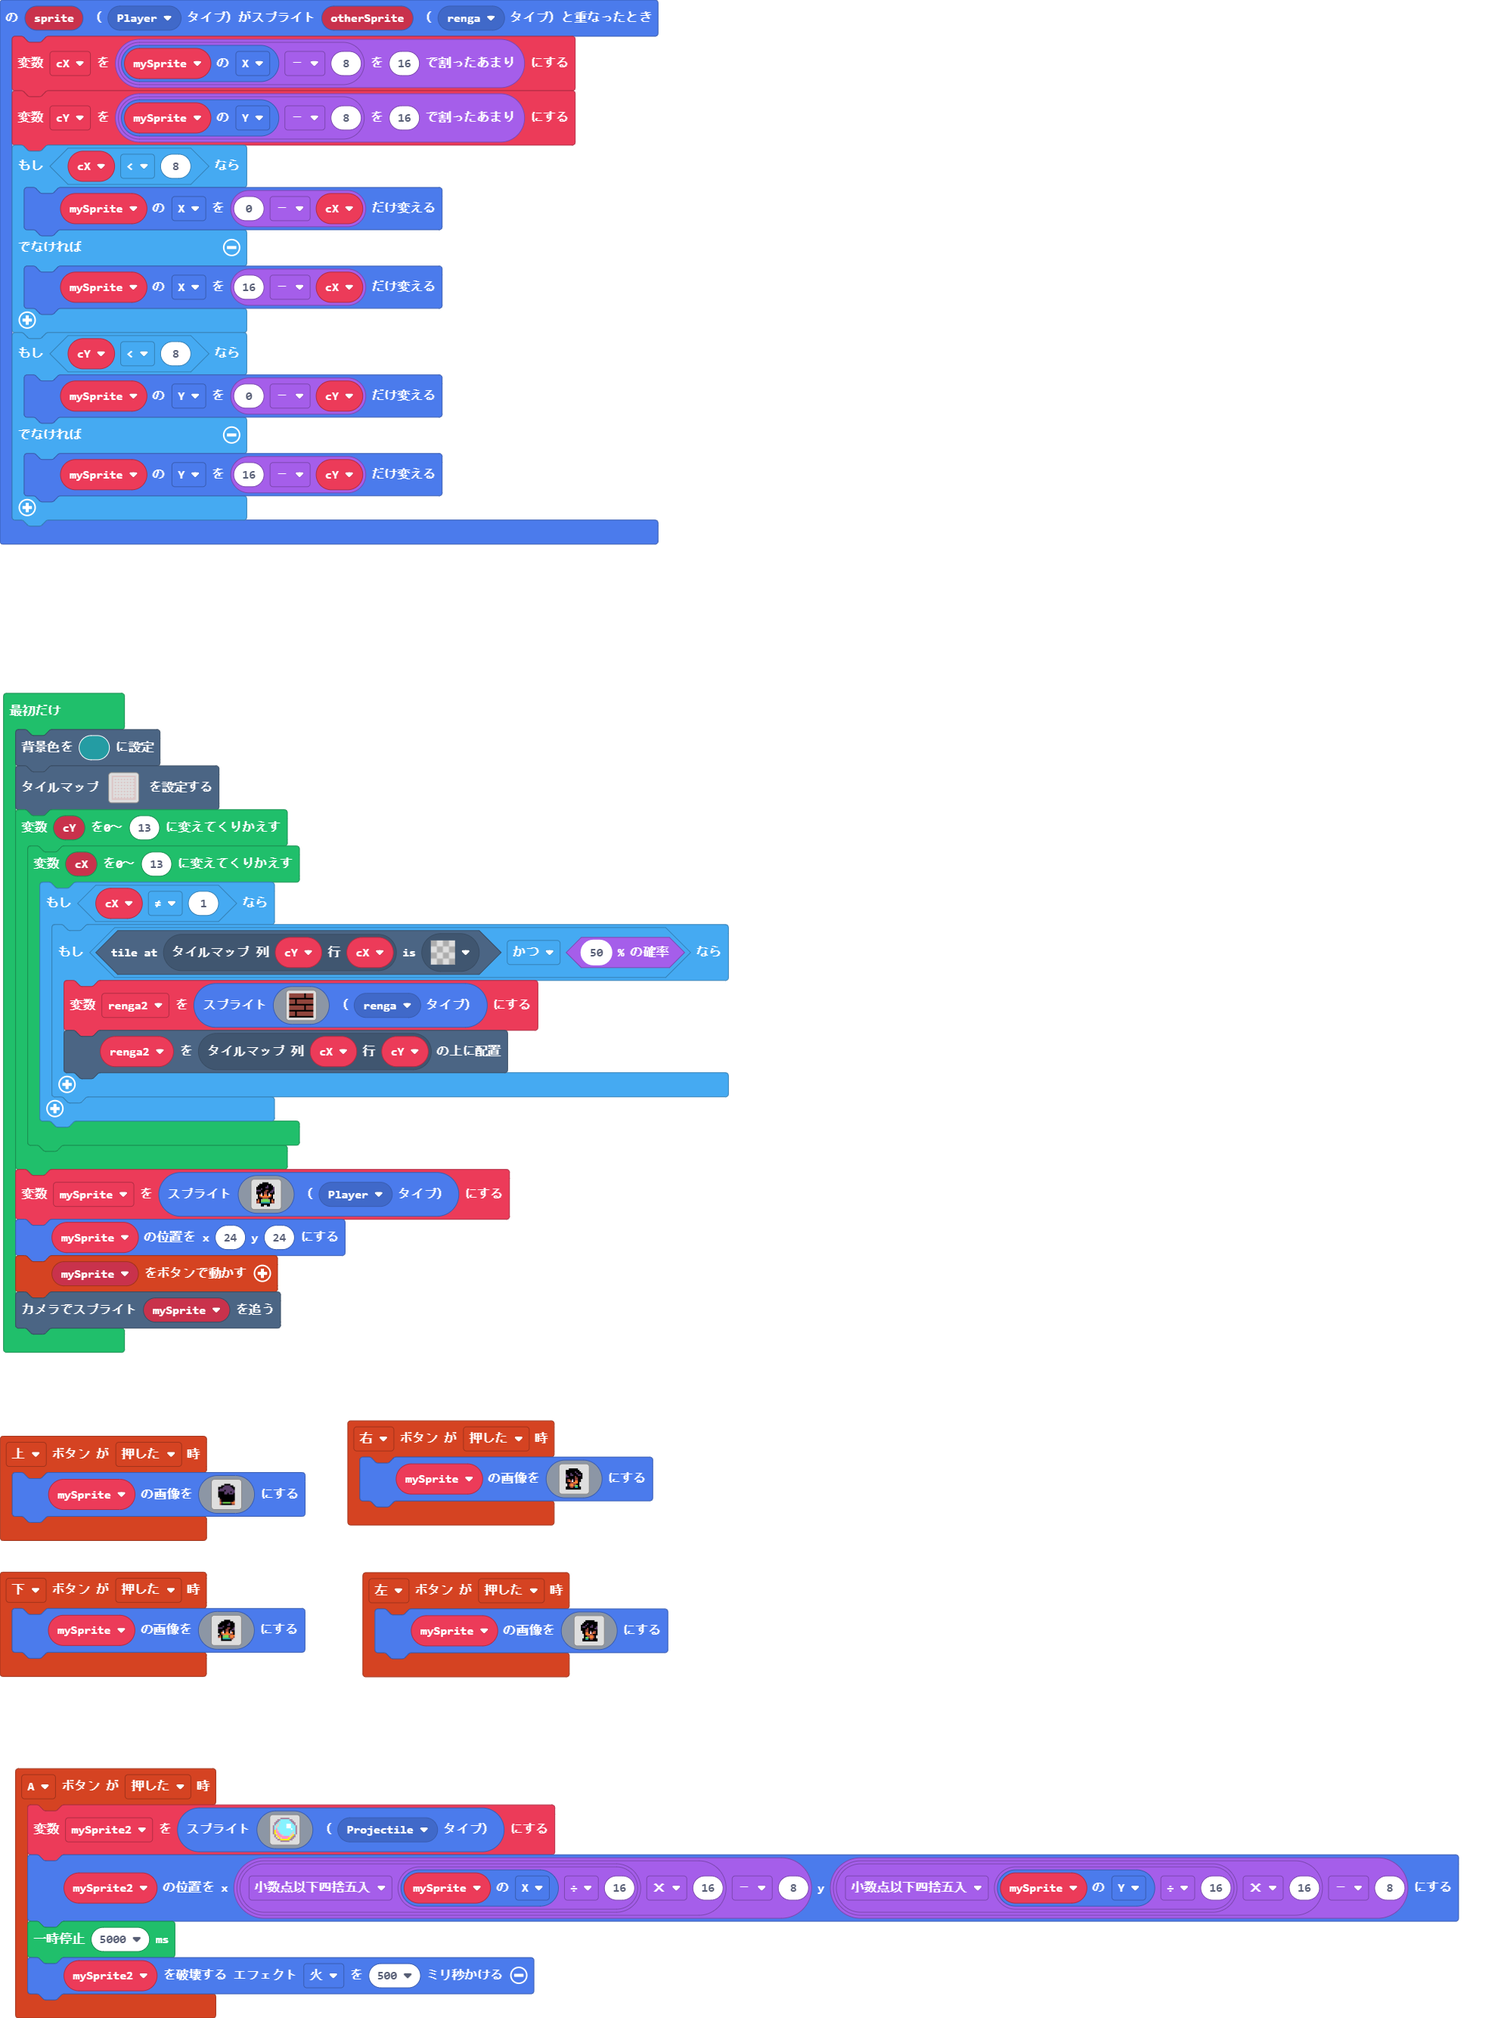
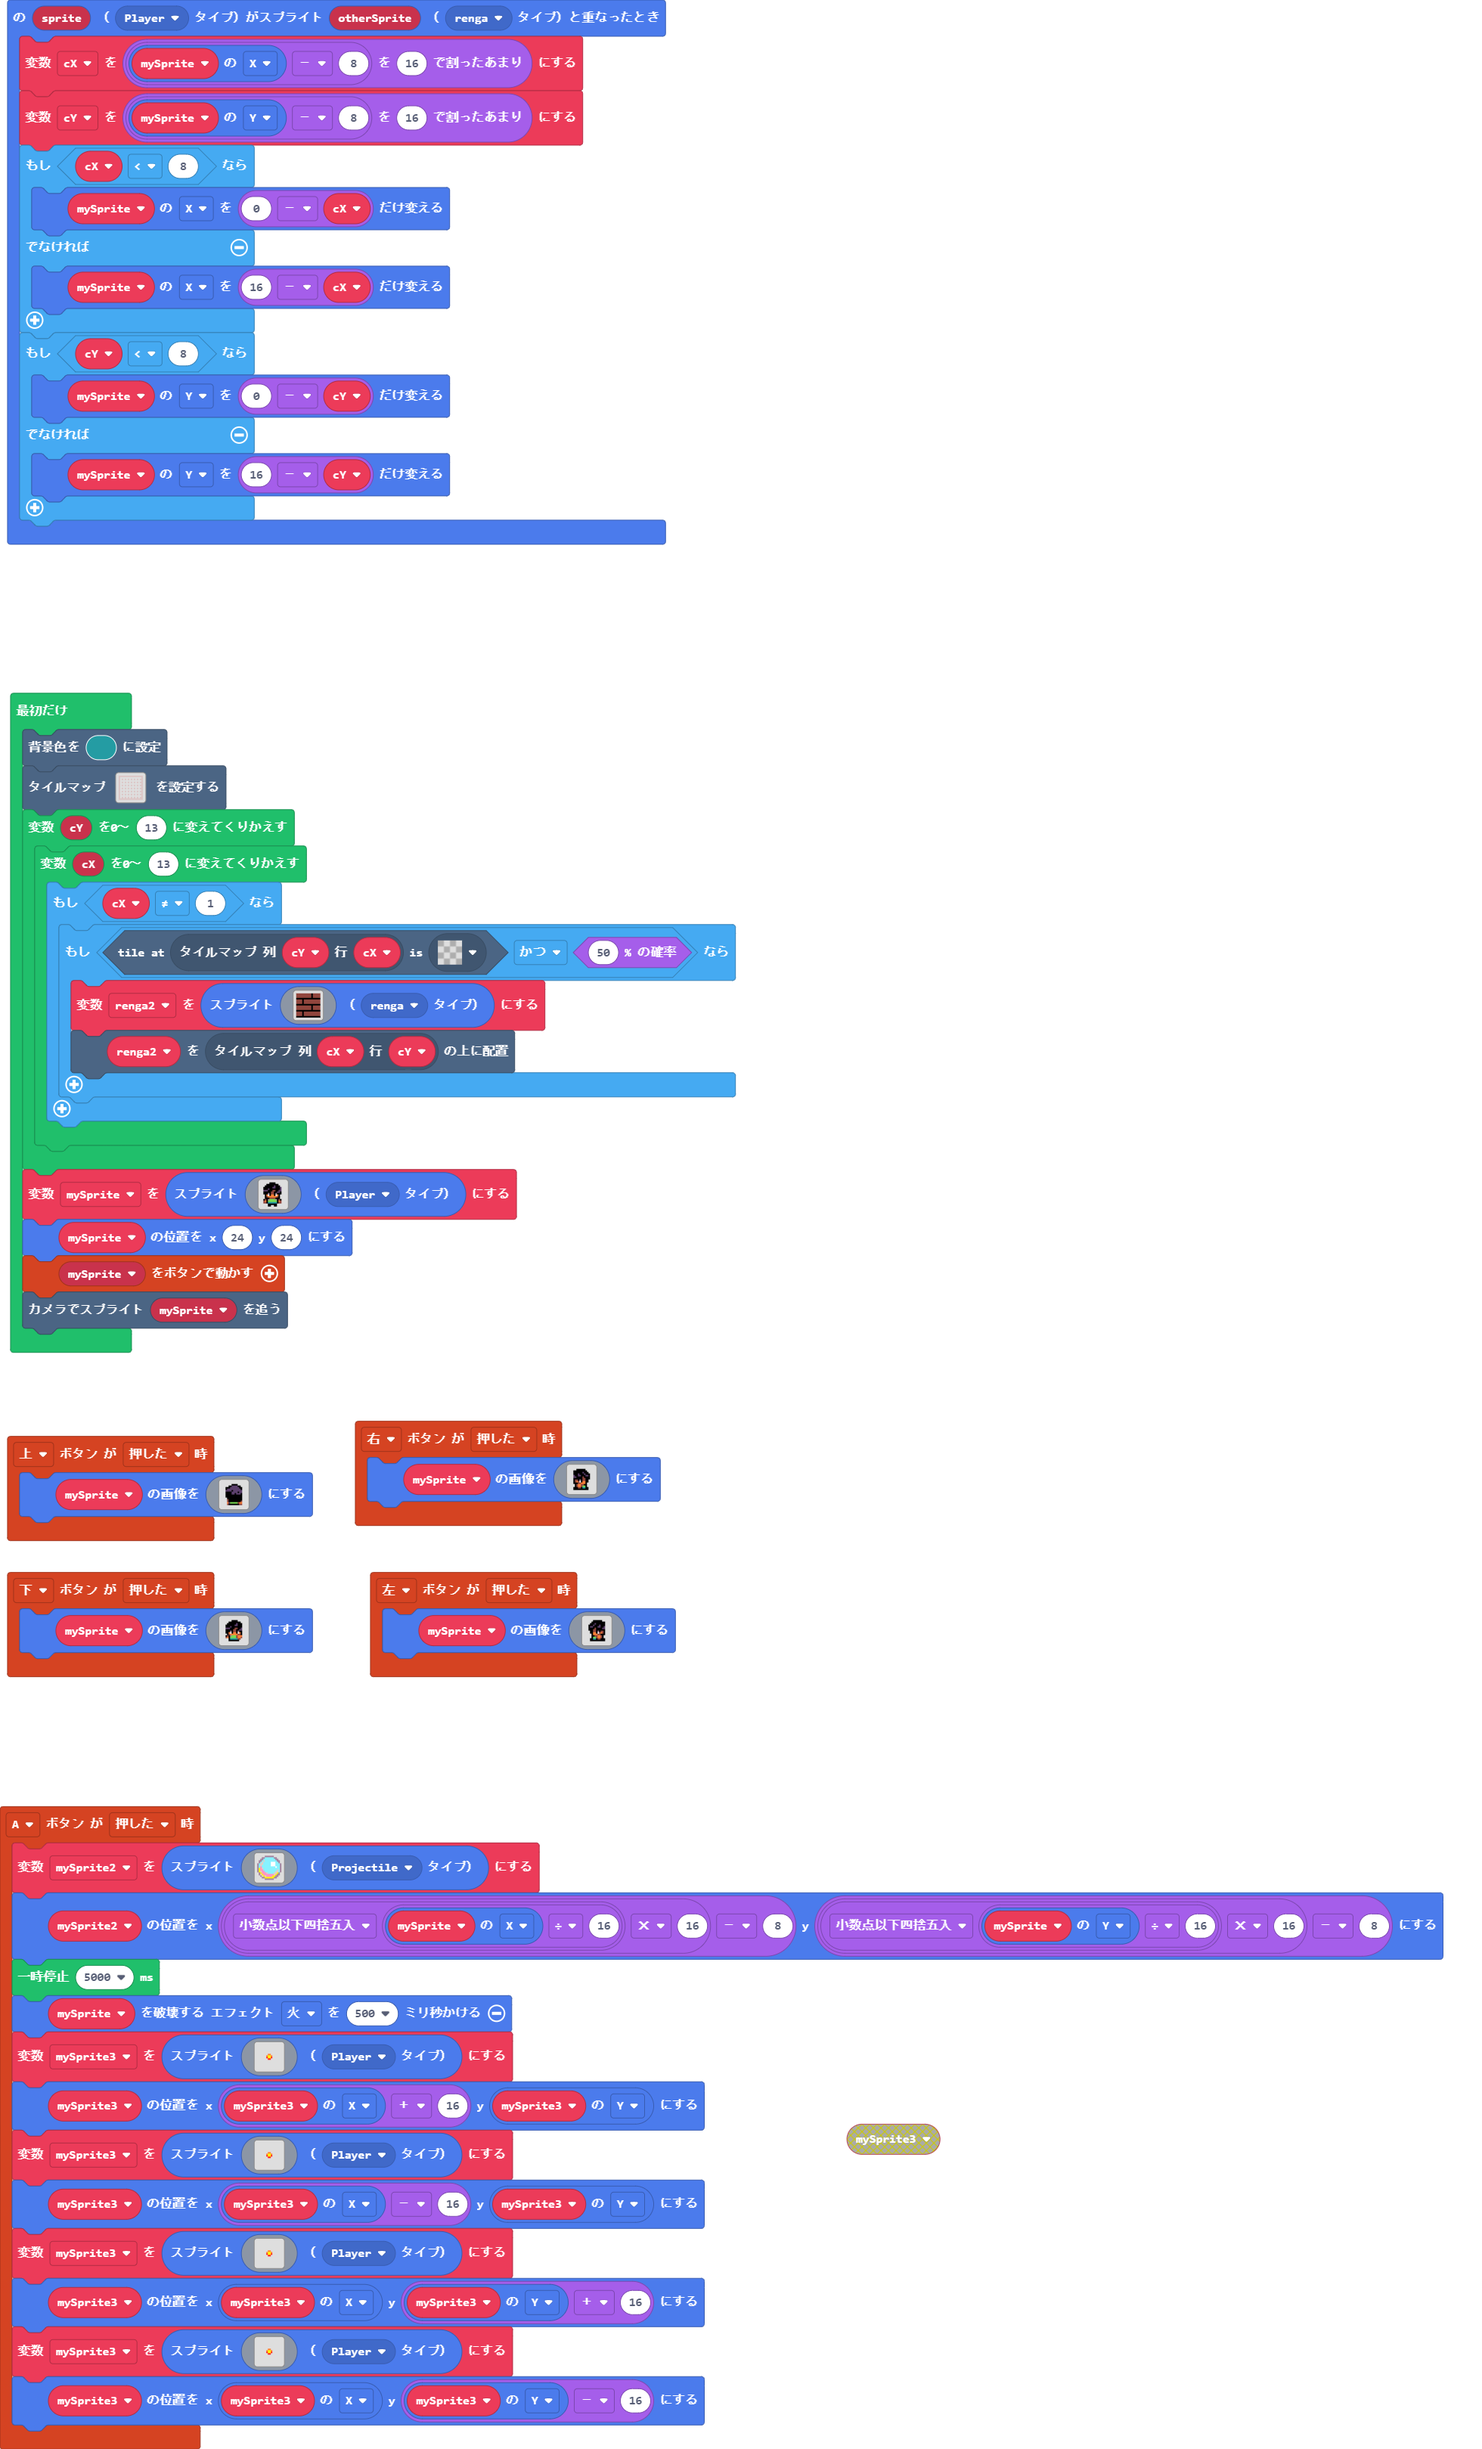
更新 main.blocks, main.ts

diff --git a/main.ts b/main.ts
@@ -116,8 +116,85 @@ controller.A.onEvent(ControllerButtonEvent.Pressed, function () {
         `, SpriteKind.Projectile)
     mySprite2.setPosition(Math.round(mySprite.x / 16) * 16 - 8, Math.round(mySprite.y / 16) * 16 - 8)
     pause(5000)
-    mySprite2.destroy(effects.fire, 500)
+    mySprite.destroy(effects.fire, 500)
+    mySprite3 = sprites.create(img`
+        . . . . . . . . . . . . . . . . 
+        . . . . . . . . . . . . . . . . 
+        . . . . . . . . . . . . . . . . 
+        . . . . . . . . . . . . . . . . 
+        . . . . . . . . . . . . . . . . 
+        . . . . . . . . . . . . . . . . 
+        . . . . . . . 4 4 . . . . . . . 
+        . . . . . . 4 5 5 4 . . . . . . 
+        . . . . . . 2 5 5 2 . . . . . . 
+        . . . . . . . 2 2 . . . . . . . 
+        . . . . . . . . . . . . . . . . 
+        . . . . . . . . . . . . . . . . 
+        . . . . . . . . . . . . . . . . 
+        . . . . . . . . . . . . . . . . 
+        . . . . . . . . . . . . . . . . 
+        . . . . . . . . . . . . . . . . 
+        `, SpriteKind.Player)
+    mySprite3.setPosition(mySprite3.x + 16, mySprite3.y)
+    mySprite3 = sprites.create(img`
+        . . . . . . . . . . . . . . . . 
+        . . . . . . . . . . . . . . . . 
+        . . . . . . . . . . . . . . . . 
+        . . . . . . . . . . . . . . . . 
+        . . . . . . . . . . . . . . . . 
+        . . . . . . . . . . . . . . . . 
+        . . . . . . . 4 4 . . . . . . . 
+        . . . . . . 4 5 5 4 . . . . . . 
+        . . . . . . 2 5 5 2 . . . . . . 
+        . . . . . . . 2 2 . . . . . . . 
+        . . . . . . . . . . . . . . . . 
+        . . . . . . . . . . . . . . . . 
+        . . . . . . . . . . . . . . . . 
+        . . . . . . . . . . . . . . . . 
+        . . . . . . . . . . . . . . . . 
+        . . . . . . . . . . . . . . . . 
+        `, SpriteKind.Player)
+    mySprite3.setPosition(mySprite3.x - 16, mySprite3.y)
+    mySprite3 = sprites.create(img`
+        . . . . . . . . . . . . . . . . 
+        . . . . . . . . . . . . . . . . 
+        . . . . . . . . . . . . . . . . 
+        . . . . . . . . . . . . . . . . 
+        . . . . . . . . . . . . . . . . 
+        . . . . . . . . . . . . . . . . 
+        . . . . . . . 4 4 . . . . . . . 
+        . . . . . . 4 5 5 4 . . . . . . 
+        . . . . . . 2 5 5 2 . . . . . . 
+        . . . . . . . 2 2 . . . . . . . 
+        . . . . . . . . . . . . . . . . 
+        . . . . . . . . . . . . . . . . 
+        . . . . . . . . . . . . . . . . 
+        . . . . . . . . . . . . . . . . 
+        . . . . . . . . . . . . . . . . 
+        . . . . . . . . . . . . . . . . 
+        `, SpriteKind.Player)
+    mySprite3.setPosition(mySprite3.x, mySprite3.y + 16)
+    mySprite3 = sprites.create(img`
+        . . . . . . . . . . . . . . . . 
+        . . . . . . . . . . . . . . . . 
+        . . . . . . . . . . . . . . . . 
+        . . . . . . . . . . . . . . . . 
+        . . . . . . . . . . . . . . . . 
+        . . . . . . . . . . . . . . . . 
+        . . . . . . . 4 4 . . . . . . . 
+        . . . . . . 4 5 5 4 . . . . . . 
+        . . . . . . 2 5 5 2 . . . . . . 
+        . . . . . . . 2 2 . . . . . . . 
+        . . . . . . . . . . . . . . . . 
+        . . . . . . . . . . . . . . . . 
+        . . . . . . . . . . . . . . . . 
+        . . . . . . . . . . . . . . . . 
+        . . . . . . . . . . . . . . . . 
+        . . . . . . . . . . . . . . . . 
+        `, SpriteKind.Player)
+    mySprite3.setPosition(mySprite3.x, mySprite3.y - 16)
 })
+let mySprite3: Sprite = null
 let mySprite2: Sprite = null
 let cY = 0
 let cX = 0
